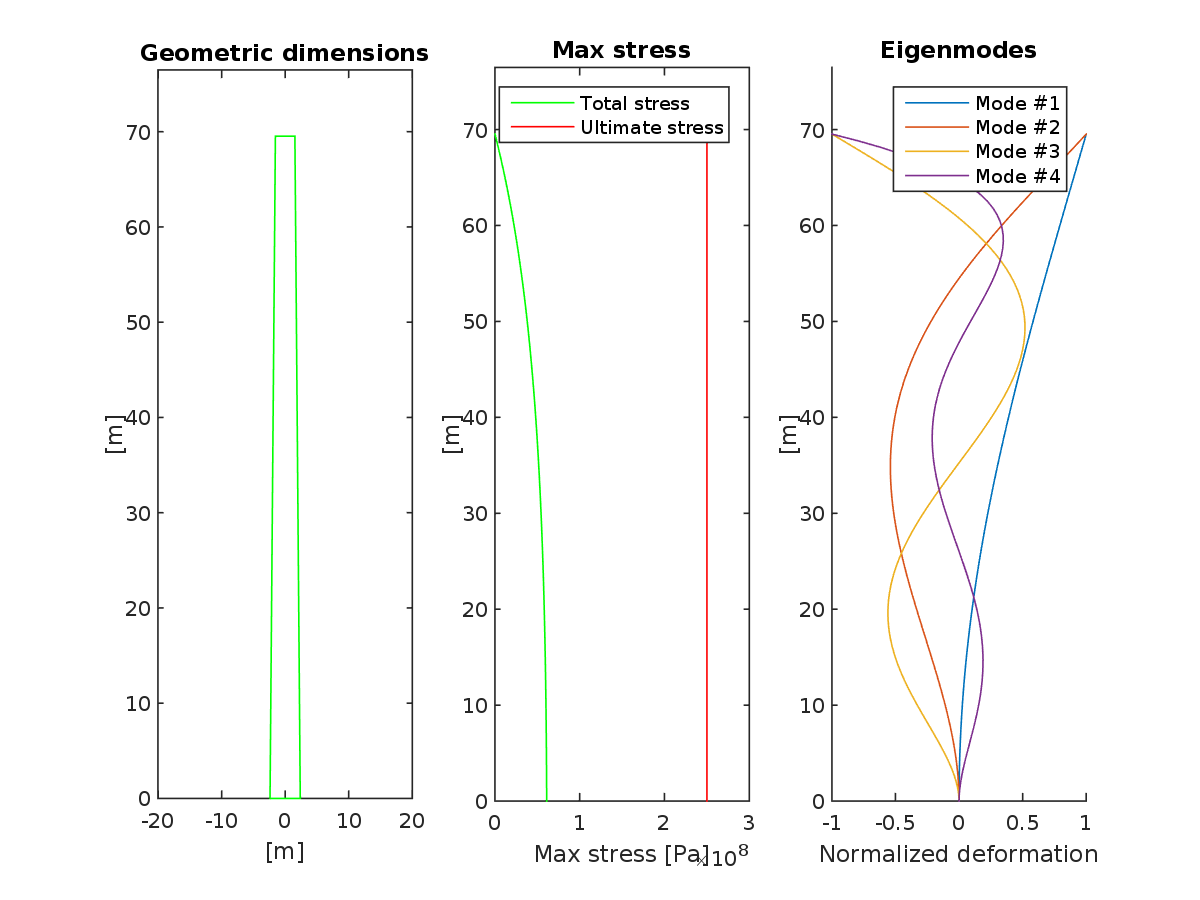
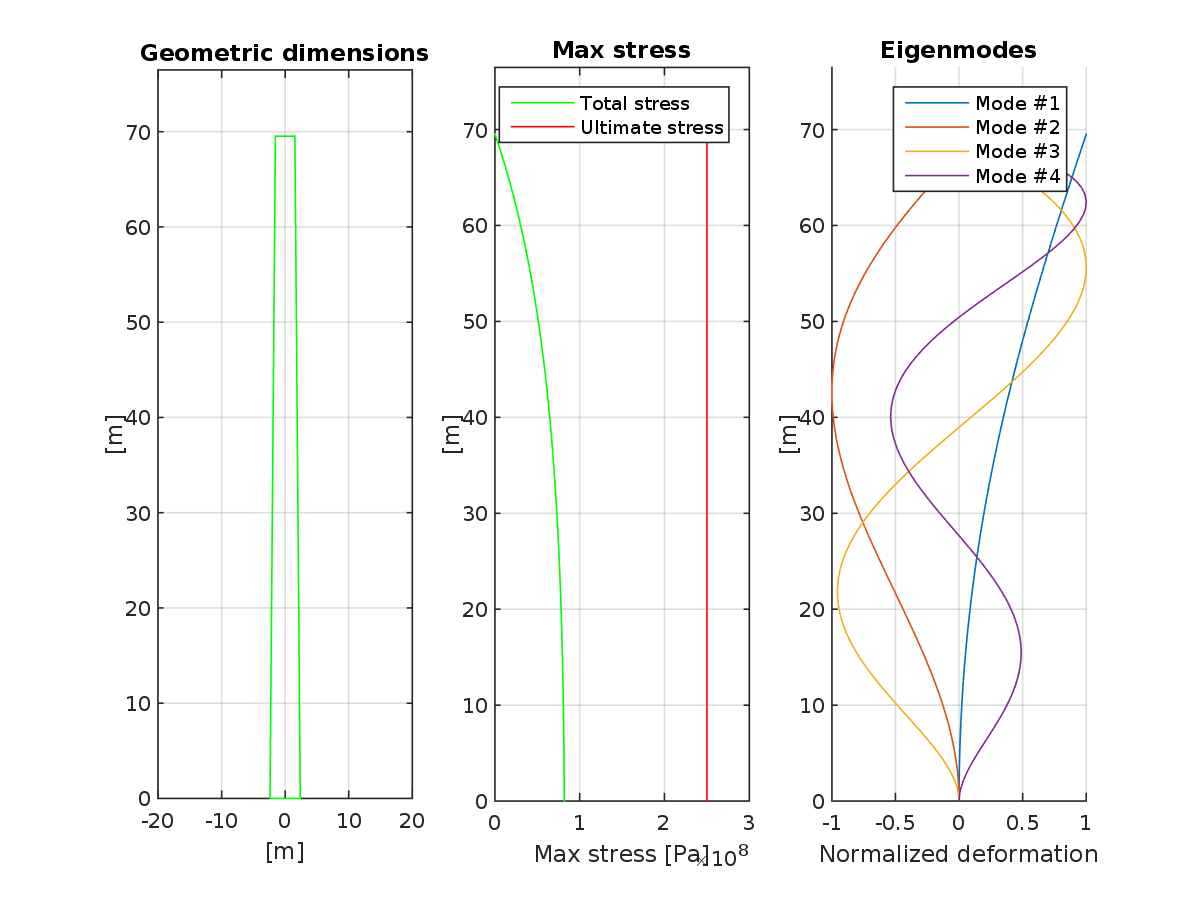
1

diff --git a/Scripts/Task5/TASK5.m b/Scripts/Task5/TASK5.m
@@ -16,7 +16,7 @@ optimized_turbine = load([turbine_file '_OPTIMIZED.mat']);
 
 [u_y, u_z, My, Mz, L] = compute_structural_state( optimized_turbine, optimized_turbine.V_rated );
 
-T = L * 3;
+T = L * 3 * 1.35;
 
 reference_turbine = load(['../Common/NREL5MW.mat']);
 
@@ -75,6 +75,8 @@ for i = 1 : length(z)
     W(i) = trapz(A(i : end) .* rho * g) * (z(2) - z(1));
 end
 
+W = W * 1.2;
+
 % Normal stress due to weight
 theta_w = W ./ A; 
 
@@ -124,6 +126,8 @@ for i = 1: length(U)
    end
 end
 
+Mm = eval(Mm + subs(UU, x, z(end)) * Total_Mass_Top);
+
 % Compute the eigensolutions of the omogeneous problem (Km + s^2 Mm)q = 0
 [X, V] = eig(Mm\Km);
 omega_s = eig(Mm\Km);
@@ -147,6 +151,8 @@ title('Geometric dimensions')
 xlabel('[m]');
 ylabel('[m]');
 
+grid on
+
 subplot(1, 3, 2)
 plot(theta, z, 'g', [theta_max theta_max], [0 z(end)], 'r')
 ylim([ 0 1.1 * H]);
@@ -154,6 +160,8 @@ title('Max stress')
 xlabel('Max stress [Pa]') % x-axis label
 ylabel('[m]');
 legend('Total stress', 'Ultimate stress');
+
+grid on
 
 subplot(1, 3, 3)
 for i = 1: length(U)
@@ -179,6 +187,8 @@ for i = 1: length(U)
 end
 
 legend(strs);
+
+grid on
 
 print('../../Images/Tower', '-dpng'); 
 
